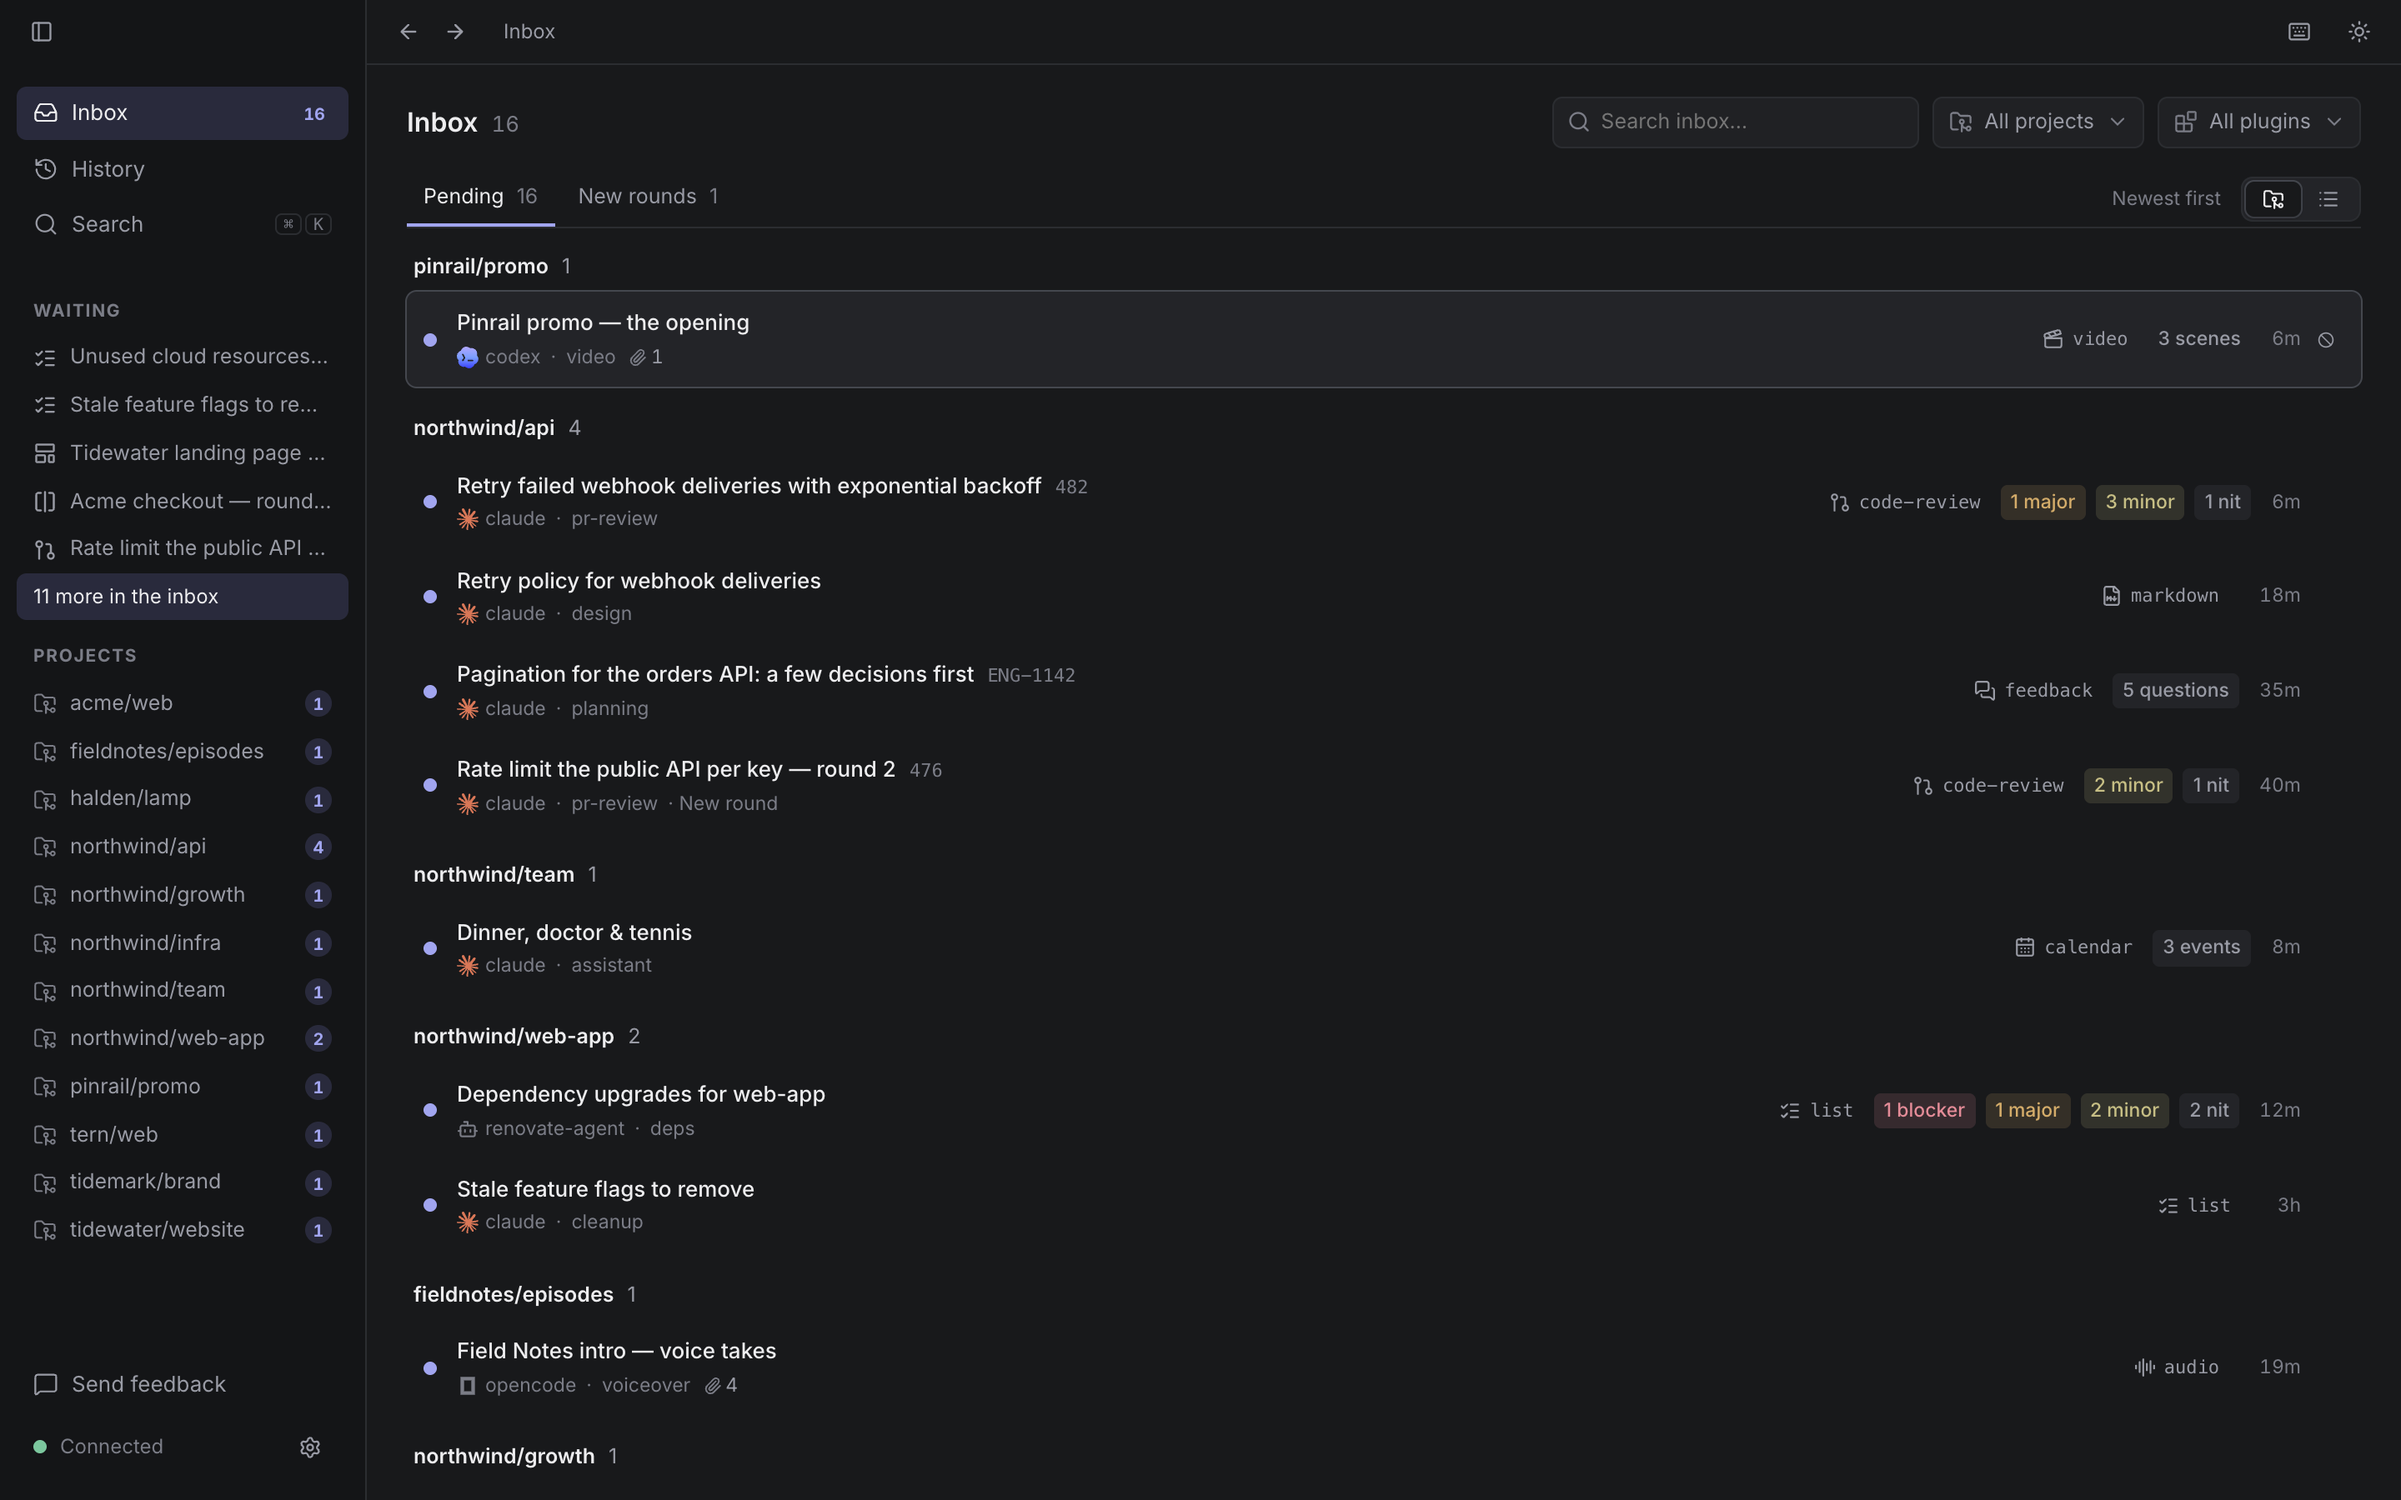
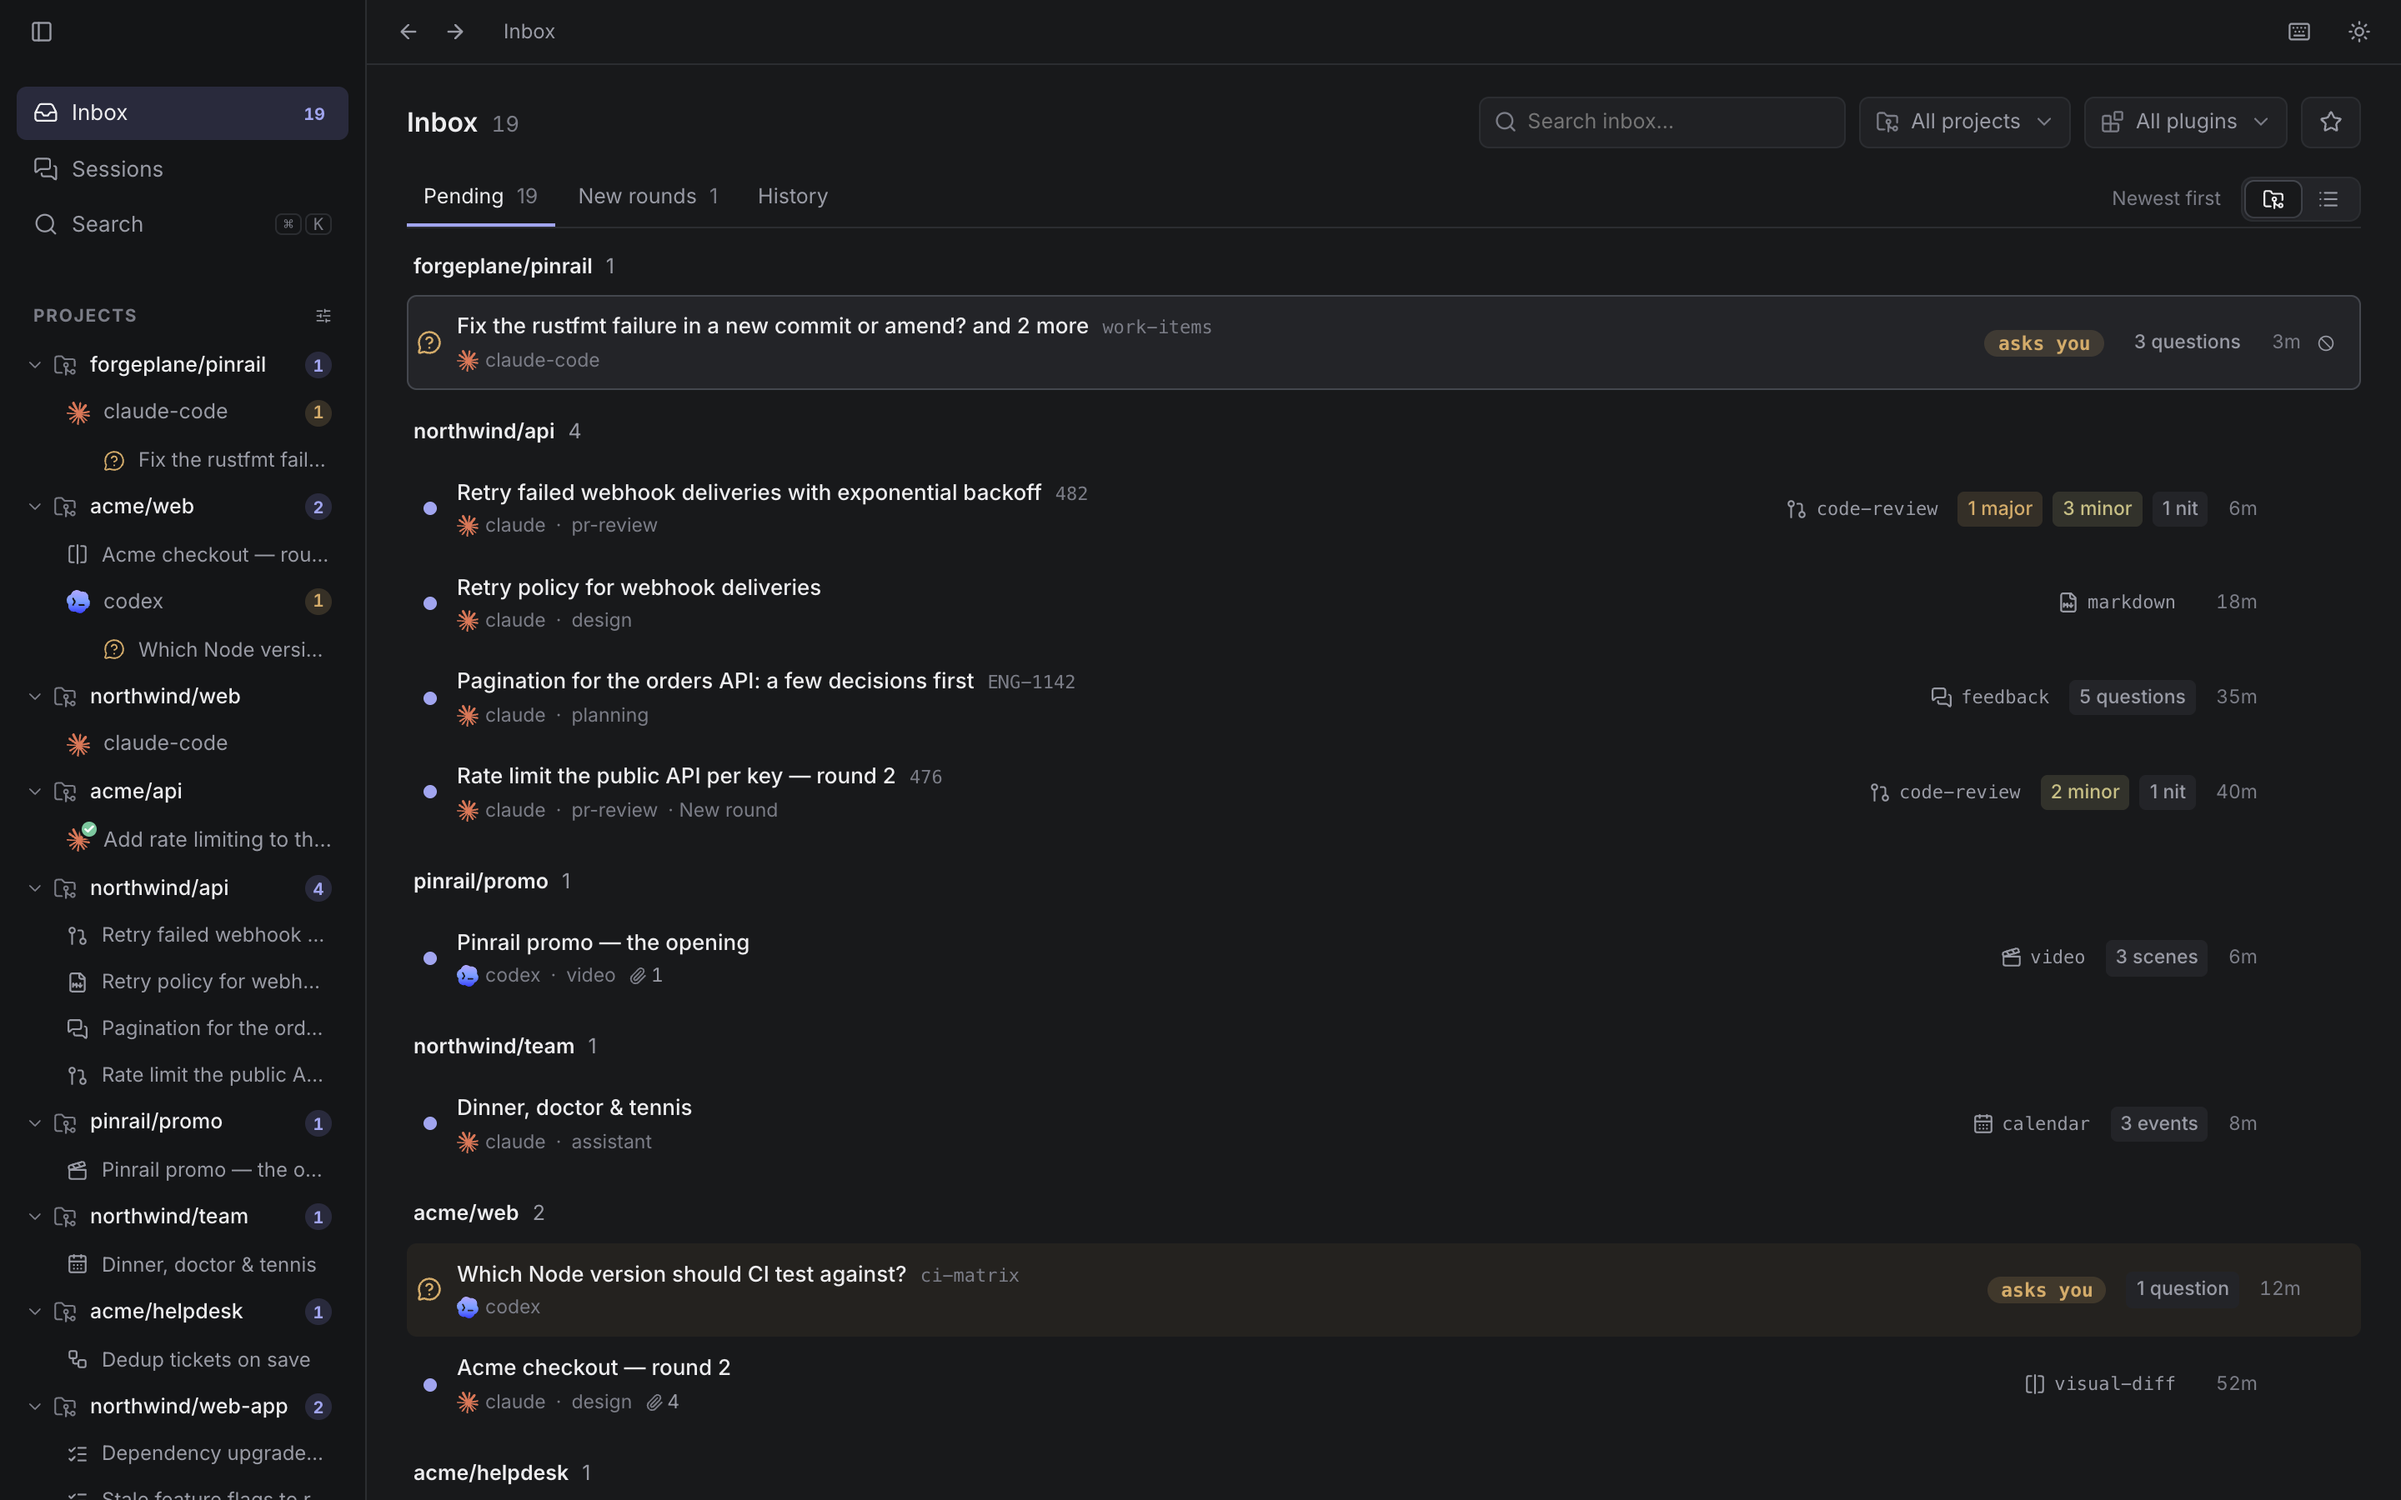
Document the sessions in the sidebar
Assisted-by: Claude Code (Claude Opus 5.5)

diff --git a/docs/using/sessions.md b/docs/using/sessions.md
@@ -41,9 +41,26 @@ A question's thread links to its session's page with *session* and the id in its
 
 ![The Sessions page: agent sessions with what waits in each, what each holds, its project and its last activity.](screenshot:sessions "Sessions waiting for you come first.")
 
-The **Sessions** page, in the sidebar, lists every session that asked you something, sent a review or reported a status: those waiting for you first, then the most recently active. Search for an agent, a session id or a title, and choose a project in the *Project* menu to list only its sessions. Click a session to open its thread in the side panel, beside the list, as the inbox opens a review. Press <kbd>J</kbd> and <kbd>K</kbd> to open the next and previous session, and <kbd>Esc</kbd> to close the panel. The panel hides the session's details at first: show them with the button in its header. *Open as a page* opens the session on its own page. When *Opening a review* is set to *As a page* in [Settings](/docs/using/settings/), sessions open on their own page too. The sidebar's *Sessions* section lists the sessions waiting for you, with how many questions and reviews wait in each.
+The **Sessions** page, in the sidebar, lists every session that asked you something, sent a review or reported a status: those waiting for you first, then the most recently active. Search for an agent, a session id or a title, and choose a project in the *Project* menu to list only its sessions. Click a session to open its thread in the side panel, beside the list, as the inbox opens a review. Press <kbd>J</kbd> and <kbd>K</kbd> to open the next and previous session, and <kbd>Esc</kbd> to close the panel. The panel hides the session's details at first: show them with the button in its header. *Open as a page* opens the session on its own page. When *Opening a review* is set to *As a page* in [Settings](/docs/using/settings/), sessions open on their own page too.
 
 To archive a session you are done with, click the archive button at the end of its row, or press <kbd>E</kbd> on the focused row. You can also archive the open session with the button in its header, or with <kbd>E</kbd>. An archived session leaves the Sessions page and the sidebar, but nothing it sent is deleted: its questions and reviews stay in the inbox while they wait, and its thread still opens from a review's header and from the command palette. Turn on *Show archived*, beside the *Project* menu, to list the archived sessions with the others, and unarchive one with its button or <kbd>E</kbd>. When an archived session's agent sends a question, a review or a status, the session comes back by itself.
+
+## Sessions in the sidebar
+
+The sidebar lists every session that is not archived, under its project. Click a project's name to see its reviews in the inbox, and click the arrow beside it to collapse or expand it. Click a session to open its thread.
+
+The agent's icon shows what the session is doing. A pulsing blue dot means the agent reported a status in the last five minutes. A green check means its last status said it had finished. An amber count at the end of the row says how many questions and reviews wait in the session, and they are listed under it, each opening where you answer or decide it. A review that came from no session is listed under its project. Hover over a session to see its latest status, the agent and the branch.
+
+The button at the right of the section's heading opens a menu:
+
+- **Grouping** groups the sessions by repository, by status, by when they were last updated, or not at all. The heading takes the grouping's name.
+- **Ordering** lists what waits first, then the working, quiet and finished sessions, or the most recently updated first.
+- **Show details** adds a second line under each session. **Details** chooses what it shows: the last activity, the latest status, the branch and the agent.
+- **Show reviews** lists what waits under its session, or only counts it.
+- **Filters** list only some agents, repositories or states, or add the archived sessions. **Reset** clears them.
+- **Collapse all groups** collapses every group, and **Expand all groups** opens them again.
+
+Pinrail keeps these choices in its settings.
 
 ## What the agent is doing
 

diff --git a/docs/using/inbox.md b/docs/using/inbox.md
@@ -7,7 +7,7 @@ The inbox is where your agents' reviews wait. When you open a review, its plugin
 
 Questions an agent asks with `pinrail ask` wait in the inbox too, marked with a question icon and *asks you*. They open in the thread of the agent's session. See [Questions and sessions](/docs/using/sessions/).
 
-![The inbox: eleven pending reviews grouped by project, each with counts of what it asks, and the waiting list and the projects in the sidebar.](screenshot:inbox "Eleven reviews waiting, across eight projects.")
+![The inbox: eleven pending reviews grouped by project, each with counts of what it asks, and the projects with their sessions in the sidebar.](screenshot:inbox "Eleven reviews waiting, across eight projects.")
 
 ## The inbox
 
@@ -19,10 +19,10 @@ The summary is a set of counts, such as *1 blocker · 2 major · 1 nit* for a co
 
 The filters above the tabs apply to every tab, and keep their values when you switch tabs.
 
-- **Filter by project or plugin.** The sidebar lists the projects your reviews come from. Pick one, or choose a project or a plugin from the menus above the list, to see only those reviews.
+- **Filter by project or plugin.** The sidebar lists your projects. Click one, or choose a project or a plugin from the menus above the list, to see only those reviews.
 - **Show the starred reviews.** Turn on the star filter beside the menus. See [Stars](#stars).
 - **Search.** Press <kbd>/</kbd> and type. The inbox shows the reviews whose title, plugin, requester, project, workflow or reference contains the text you typed. The content of a review is not searched.
-- **Jump to the oldest.** The sidebar keeps the oldest waiting reviews one click away on every screen, and <kbd>⌥↓</kbd> and <kbd>⌥↑</kbd> step through what is waiting.
+- **Jump to what waits.** The sidebar lists what waits under the session that sent it, one click away on every screen. See [Sessions in the sidebar](/docs/using/sessions/#sessions-in-the-sidebar). <kbd>⌥↓</kbd> and <kbd>⌥↑</kbd> step through what is waiting, oldest first.
 
 ## Deciding a review
 

diff --git a/CHANGELOG.md b/CHANGELOG.md
@@ -20,8 +20,11 @@ The `pinrail` command ships inside the app and carries the app's version.
   questions and reviews. Pick a choice or answer in your own words, add a
   note to an answer, and comment on all the questions at once.
 - A Sessions page lists the agent sessions that asked you questions or
-  sent reviews, those waiting for you first. The sidebar lists the
-  sessions waiting for you.
+  sent reviews, those waiting for you first.
+- The sidebar lists every session that is not archived under its
+  project, with what waits under the session that sent it. A mark on the
+  agent's icon shows a session that works or has finished, and a menu
+  groups, orders and filters the sessions.
 - Questions in the inbox are marked apart from reviews.
 - A question's text can use inline Markdown, such as `code` and **bold**,
   which the thread shows formatted.
